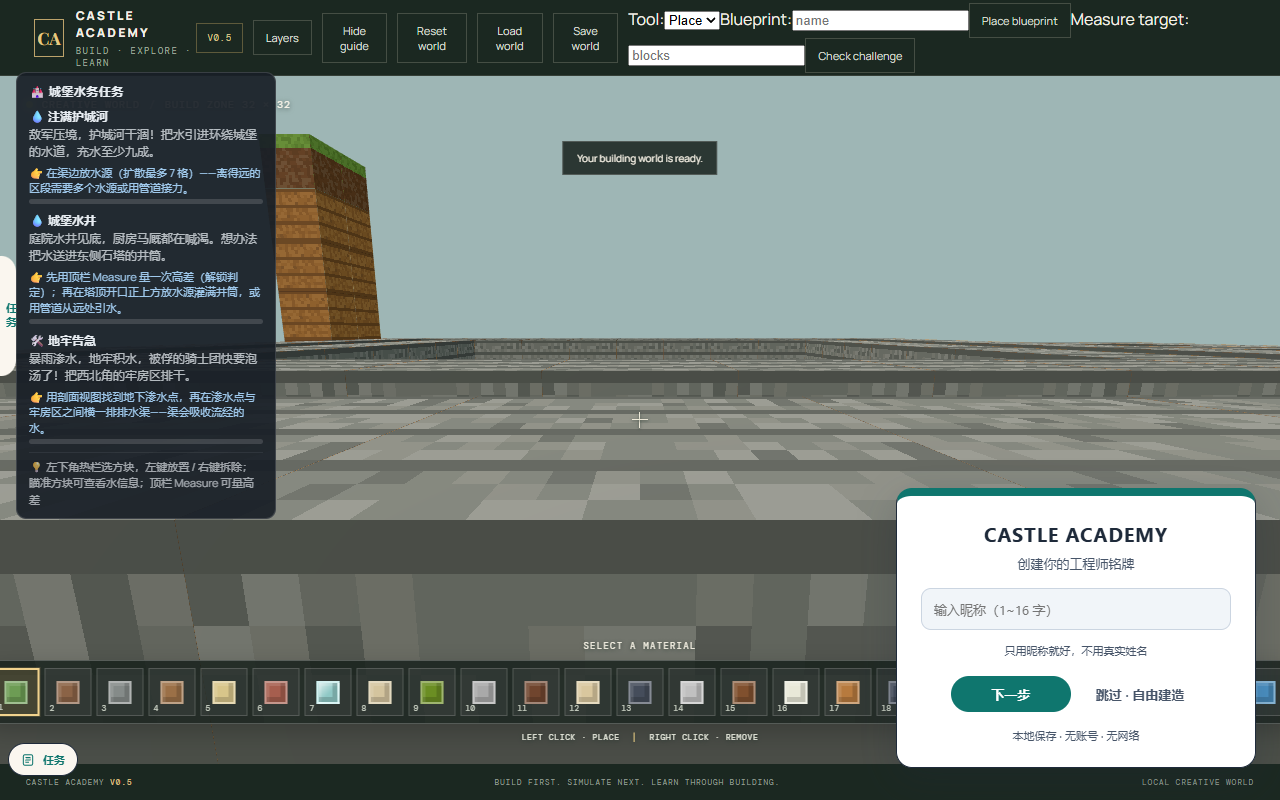
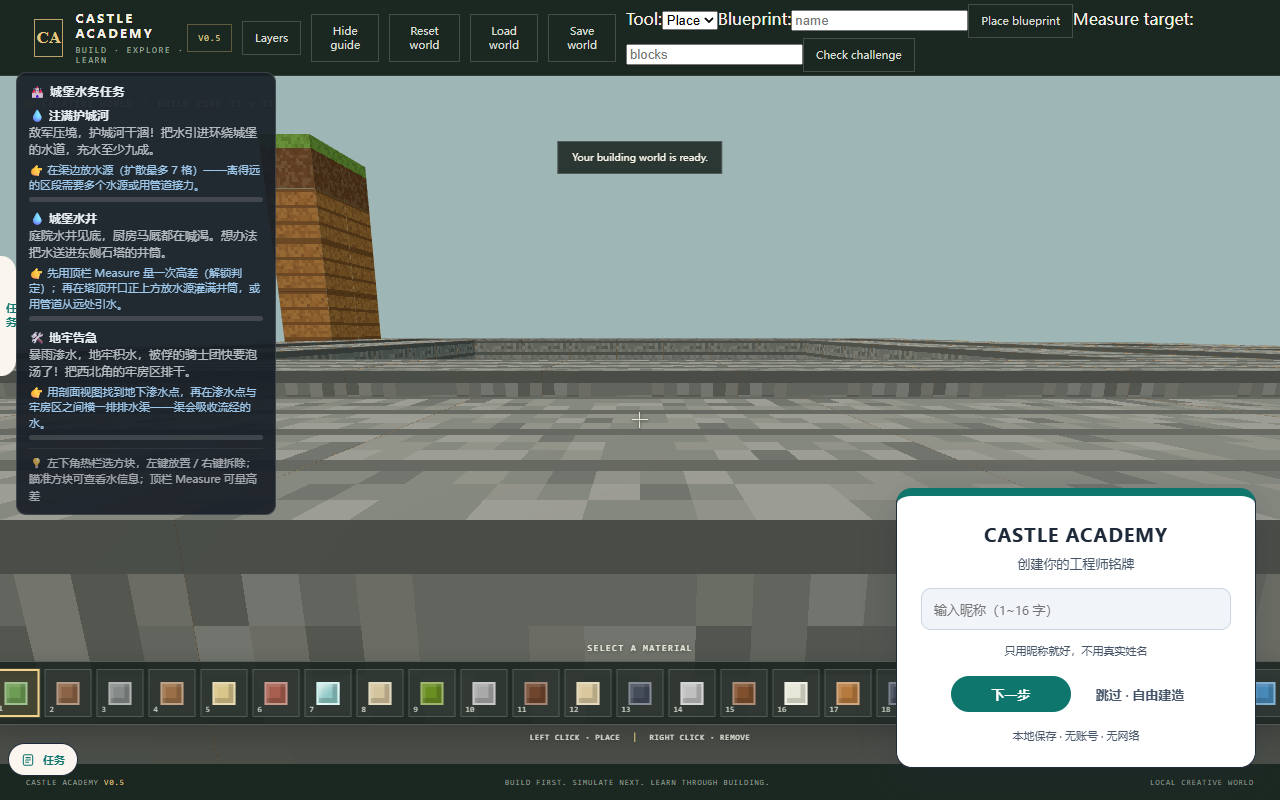
docs(V51-017): 验收报告 + 15 任务内容包下重截 S1~S8 canonical 与视觉回归证据

diff --git a/docs/v0.51/V0.51_Acceptance_Report.md b/docs/v0.51/V0.51_Acceptance_Report.md
@@ -1,0 +1,76 @@
+# V0.51 验收报告（V51-017）
+
+**日期：** 2026-11-10 · **范围：** Phase 0~3 全部（V51-001~017） · **源码仓库 HEAD：** `3dc1989`
+**基线：** `6f5e244`（0.5.0） · **依据：** `04_Testing/V0.51_Acceptance_Test_Plan.md`、`03_UI/V0.51_Visual_Regression_Checklist.md`
+**结论：验收计划 AC-201~232 全部 PASS，回归与视觉回归达标；GATE-3 发布签核仍待 owner ACCEPT。**
+
+---
+
+## 1. 执行命令与证据
+
+全部命令在 `Castle_Academy_V0.1_Source` 根目录执行；build 与 E2E 严格串行（E2E 使用 `--workers=1`）。
+
+| # | 命令 | 退出码 | 结果 |
+|---|------|--------|------|
+| 1 | `npm run typecheck` | 0 | `tsc -b --pretty false`，0 错误 |
+| 2 | `npm test -- --no-file-parallelism` | 0 | **28 文件 / 215 passed**（V0.5 基线 155 全绿 + V0.51 新增 60） |
+| 3 | `npm run build` | 0 | vite 6.4.5，1623 modules；CSS 23.30 kB / JS 747.76 kB；大 chunk 警告为 V0.5 既有现象 |
+| 4 | `npx playwright test --workers=1` | 0 | **47 passed (4.5m)**：V0.5 基线 20（一行未改）+ V0.51 既有 20 + 批次 1 3 + 批次 2 4 |
+| 5 | `node scripts/v051-visual-regression.mjs` | 0 | 11 张截图（S1~S8 + 世界主视图 + 纯净视图 + worldCanvas 锚点）+ 分区回归统计 |
+
+V0.5 稳定契约复核：`WorldState.ts` / `blocks.ts` / `EventBus.ts` 自基线零改动 → `WorldSnapshot version 1` 零变更；`e2e/water-quests.spec.ts` 等 6 份基线 E2E 文件零改动全绿。
+
+## 2. AC 逐项结论（AC-201~232）
+
+| AC | 结论 | 证据 |
+|----|------|------|
+| AC-201 首次创建档案 / 独立 key | PASS | `v051-mission-foundation` #1~#2；`LearnerProfilePlugin.test.ts`(11)；B 报告 §4 实测 |
+| AC-202 多档案切换互不串扰 | PASS | `v051-mission-foundation` #3；`LearnerProfileProgressStore.test.ts`(5) |
+| AC-203 档案损坏容错 | PASS | `v051-mission-foundation` #4；`consumeLearnerNotice()` 含「已重置」 |
+| AC-204 昵称校验 | PASS | `v051-onboarding` #2；`validateNickname()` 1~16 字 |
+| AC-205 清除数据后重建 | PASS | `v051-onboarding` #1；B 报告 §4 `CREATED_OK=true` |
+| AC-210 三任务迁移等价 | PASS | `missions.test.ts`(8，V0.5 文案逐字对拍)；`castleQuests.ts` re-export 兼容层 |
+| AC-211 进度持久化 / 存档零耦合 | PASS | `v051-mission-foundation` #2；B 报告 §4 world 顶层仅 `["version","blocks"]` |
+| AC-212 评估器确定性 | PASS | `evaluators.test.ts`、`extendedEvaluators.test.ts`（源码无随机/时间/网络/DOM；同输入三次一致） |
+| AC-213 能力缺失「暂不可玩」 | PASS | `v051-mission-detail` #3；截图 S8 |
+| AC-214 完成幂等 | PASS | `v051-reward` #2；`v051-content-batch1` #3；`RewardPlugin` |
+| AC-215 旧事件兼容期 | PASS | V0.5 `water-quests.spec.ts` 等 20 个基线 E2E 一行未改全绿 |
+| AC-216 everWet / 测量门槛 | PASS | `CastleQuestPlugin.test.ts`(7)、`evaluators.test.ts` |
+| AC-220 侧栏交互 | PASS | `v051-mission-sidebar` 5 例（悬停 / 固定 / 650ms 折叠 / 键盘 / 触屏） |
+| AC-221 不挤压视口 | PASS | `v051-mission-sidebar` #4：canvas 尺寸与相机不变 |
+| AC-222 详情层级与平实进度 | PASS | `v051-mission-detail` #1；截图 S6 |
+| AC-223 提示阶梯 | PASS | `v051-mission-detail` #2；次数记录进档案、不惩罚 |
+| AC-224 完成反馈 | PASS | `v051-reward` #1~#2；240ms 动画 ≤400ms；双出口 |
+| AC-225 无 emoji 永久图标 | PASS | `v051-reward` #3 / `v051-mission-detail` #4 / `v051-mission-sidebar` #5；`icons.tsx` 纯 SVG |
+| AC-226 引导流 | PASS | `v051-onboarding` 4 例；截图 S1~S3 |
+| AC-230 新任务批次内容评审 | PASS | 12 个 `MissionDefinition` 全部通过 `validateMissionDefinition()`；`extendedEvaluators.test.ts`；`v051-content-batch1/2` 内容断言 |
+| AC-231 年龄带 / 表达形式覆盖 | PASS | 15 个任务覆盖 **4 个年龄带**与 **5 种表达形式**（阈值 ≥3）；`life-simulation` 留 V0.6 |
+| AC-232 交流类任务证据 | PASS | `v051-content-batch2` #2：短文本不完成、≥12 字完成、无意义重复字符同样通过（不评判质量）；实测 localStorage 无该文本片段 |
+
+## 3. 视觉回归（`docs/v0.51/screenshots/`）
+
+- canonical：`canonical/s1..s8*.png`（8 张，1280×800）+ `world-clean-v051.png` + `world-canvas-anchor-v051.png`（960×608 worldCanvas 裁剪）。
+- 世界主视图对比 V0.5 `quest_panel_stage.png`（1280×720 / 921600 px）：总差 **9482 px / 1.029%**。
+
+| 区域 | diffPixels | ratioPercent | 判定 |
+|------|-----------|--------------|------|
+| worldCanvas | **0** | **0%** | 零容差红线 **PASS**（渲染代码零改动） |
+| footer | 0 | 0% | PASS |
+| questPanel | 12 | 0.01% | PASS（≤0.5%） |
+| topbar | 9418 | 9.681% | 见 O-1，非本版回归 |
+
+- F-1 已修：`world-clean-v051.png` 现为真正的无 HUD 视图；新增 worldCanvas 裁剪锚点供 V0.6 使用。
+- S1~S8 在 15 个任务的内容包下重截（S4 侧栏显示 `0/15 个任务完成`、面板可滚动且世界画布未被挤压；S7 仍只有护城河 1/15 完成、奖励卡唯一）。重截原因已登记，**非静默替换 canonical**。
+
+## 4. 已知开放项（不阻断验收，GATE-3 请 owner 复核）
+
+| # | 事项 | 状态 |
+|---|------|------|
+| O-1 | 顶栏 9.681% 像素差：归因为 V0.5 既存 D-1 Google Fonts 外链字形 + 两次采集 `helpOpen` 文案状态不同；`styles.css` 自基线仅 +1 行 `@import "./tokens.css";` | 保留现有 canonical，V0.6 独立 DDR 处理 |
+| 迁移窗口 | 旧 `quest-panel` / `CastleQuestPlugin` / `quest.*` 事件暂未移除 | 移除会破坏「20 个基线 E2E 一行不改全绿」；请 owner 在 GATE-3 决定 |
+| 文案偏差 | 侧栏标题仍为「任务 · 城堡水务」，批次 2 含跨主题任务；首个高亮任务仍为 `mission.moat.v1`（规格 §4 示例为「水往哪里流」） | 为避免改动 owner 已确认截图 / V0.5 顺序契约，登记备查，V0.6 按 DDR 流程处理 |
+| D-2 | 执行包性能基线数字与本机实测不符 | 按「同机同脚本对照本次实测基线」判定，见 V51-018 报告 |
+
+## 5. 结论
+
+AC-201~232 **全部 PASS**；V0.5 回归（155 基线单测、20 基线 E2E 一行未改、WorldSnapshot v1 零变更）全部满足；渲染零漂移红线满足（worldCanvas 0 像素差）。**V51-017 完成。**
